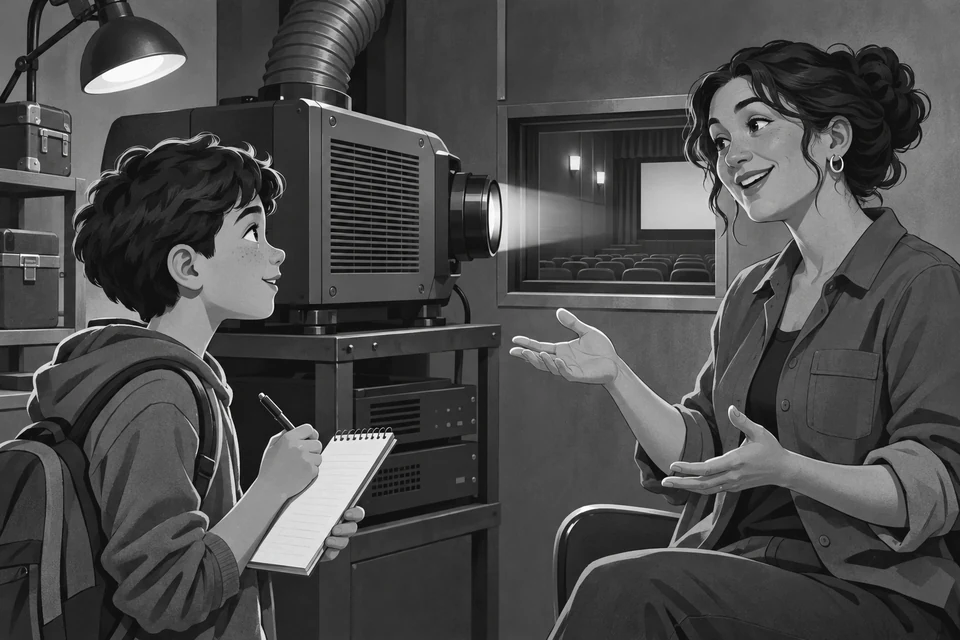
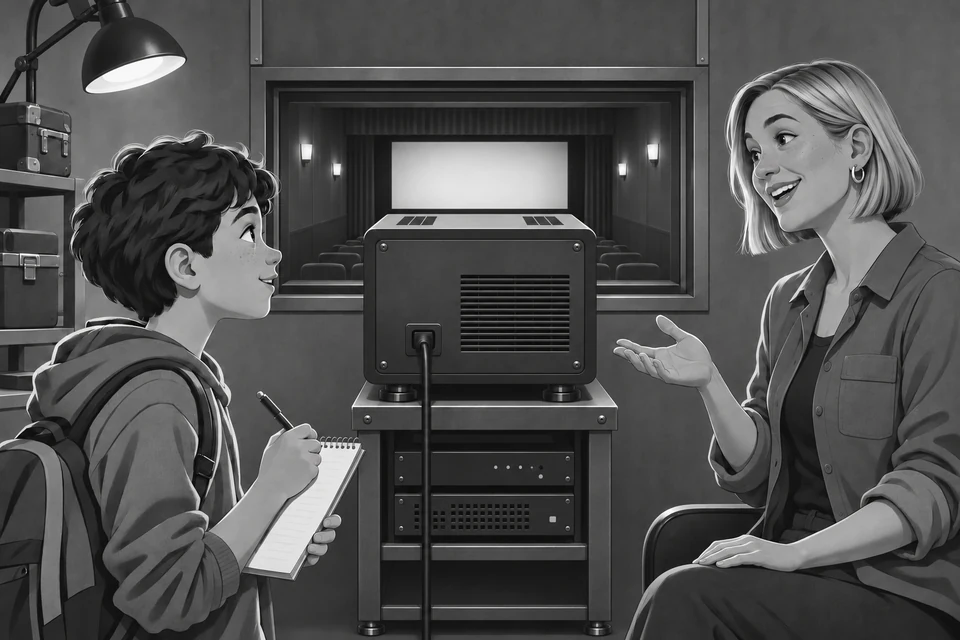
Align the cinema projector with the screen in L052

diff --git a/data/readings-5-es-5.js b/data/readings-5-es-5.js
@@ -866,7 +866,7 @@ export const readings5EsFifthSeries = [
         "src": "assets/readings/l052-una-manana-detras-de-la-pantalla.webp",
         "width": 960,
         "height": 640,
-        "alt": "Adriana y la encargada de la proyección están en la cabina del cine. Por la ventanilla se ve la sala.",
+        "alt": "Adriana toma notas mientras habla con Eva. Entre ellas, el proyector está orientado hacia la pantalla que se ve por la ventanilla.",
         "afterParagraph": 1
       }
     ],

diff --git a/assets/readings/L052-illustracio.md b/assets/readings/L052-illustracio.md
@@ -2,6 +2,8 @@
 
 Imatge `l052-una-manana-detras-de-la-pantalla.webp`, generada amb el generador integrat i optimitzada per al catàleg.
 
+A la revisió, el projector es veu des del darrere, alineat amb la finestreta i la pantalla. L’Eva porta el cabell clar, curt i llis.
+
 ```text
 Original wide 3:2 editorial illustration for a Spanish primary-school reading worksheet. A fifth-grade student with a notepad interviews an adult woman projectionist in a neighborhood cinema projection booth. A modern digital projector points through a small window into the auditorium. Modern editorial digital painting, muted teal, charcoal and warm amber, clear contours and no visible interface text. Clear grayscale reproduction on a school printer. No captions, readable text, logos, border, or collage layout.
 ```
